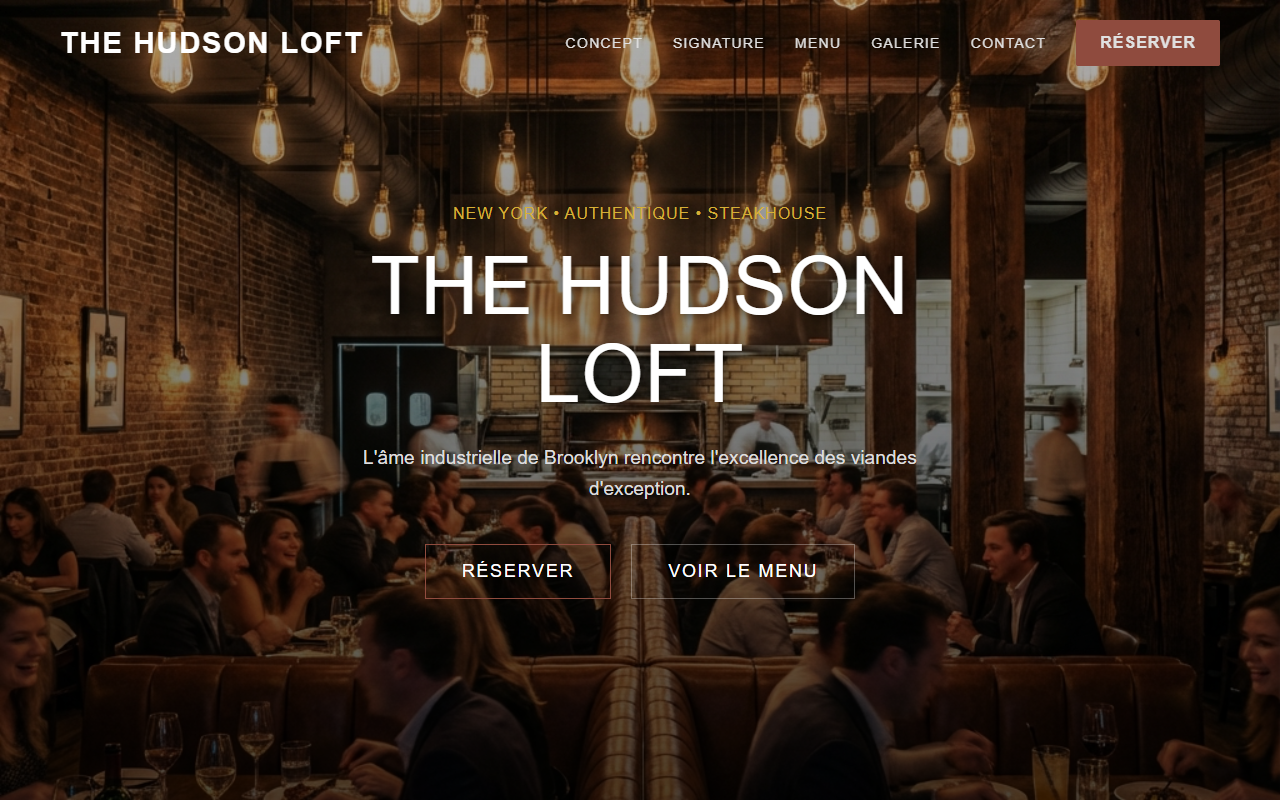
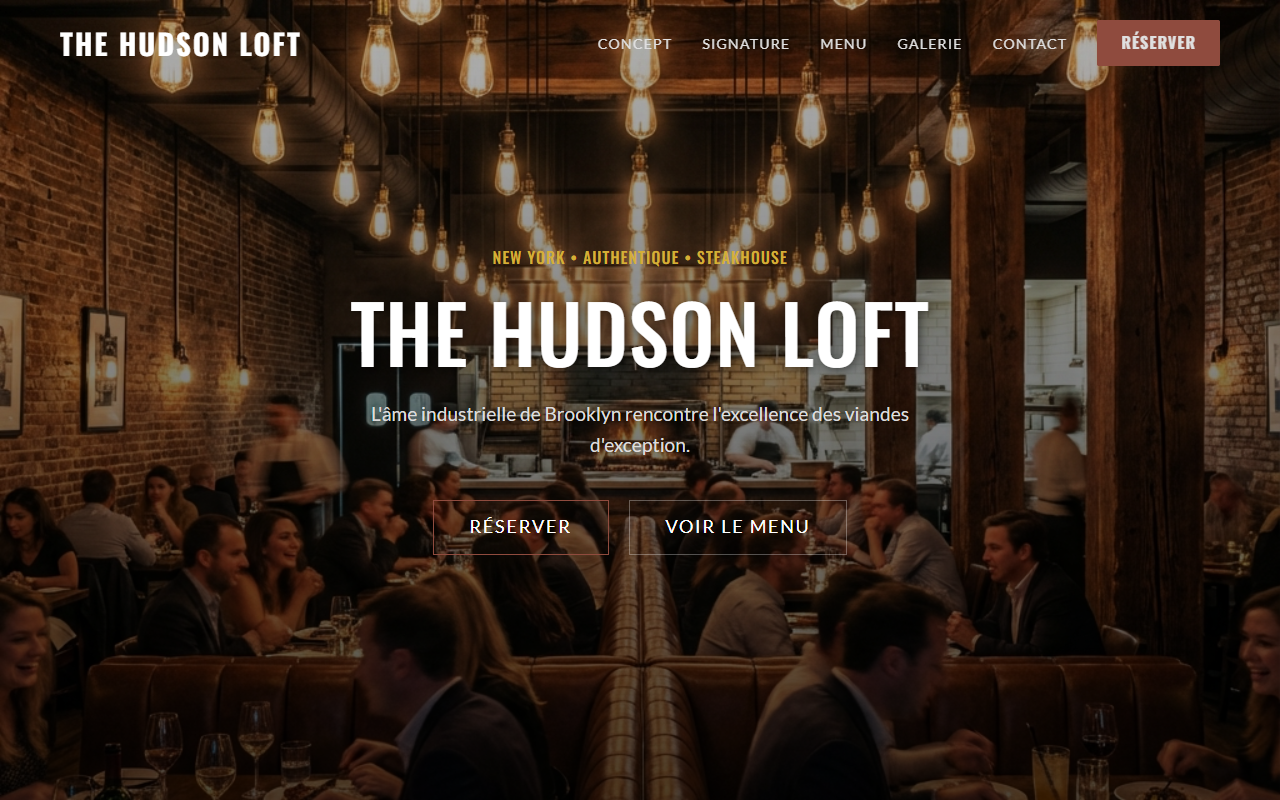
Fix Restaurant fonts (Oswald/Lato) and update screenshot

diff --git a/src/styles/restaurant/index.css b/src/styles/restaurant/index.css
@@ -1,3 +1,5 @@
+@import url('https://fonts.googleapis.com/css2?family=Lato:wght@300;400;700&family=Oswald:wght@300;400;500;700&display=swap');
+
 :root {
   --color-bg: #121212;
   --color-bg-alt: #1a1a1a;
